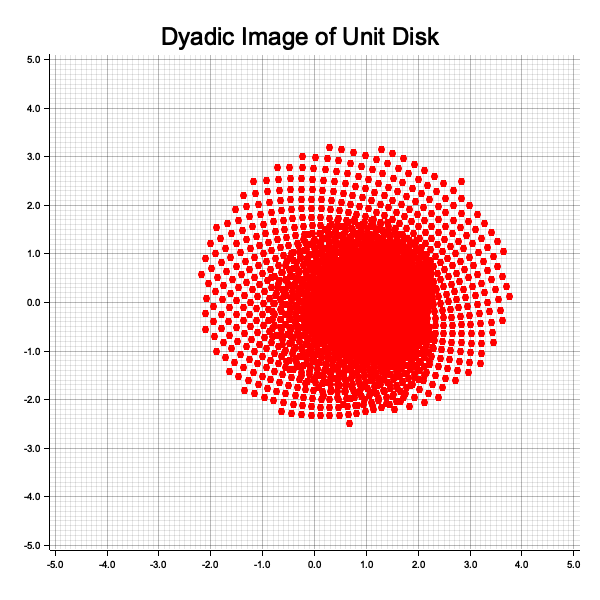
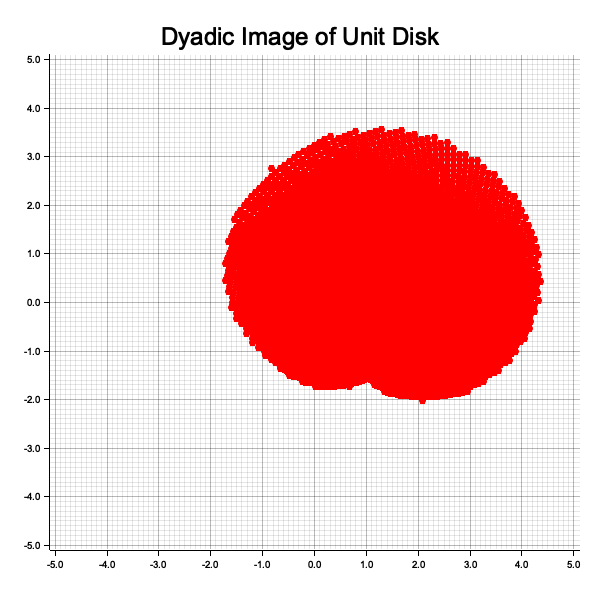
readme fixed

Changed region(s): [[0.33, 0.21, 0.93, 0.72]]

diff --git a/src/main.rs b/src/main.rs
@@ -11,12 +11,12 @@ fn main() -> Result<(), Box<dyn std::error::Error>> {
     let x = Dyadic::new(3, -1) ;
     let m_seq = vec![x.clone(), x.clone(), x.clone()] ;
     let t_seq = vec![0, 1, 0, 1, 2, 1, 4, 1, 2, 4, 4, 3, 1, 4, 5] ;
-    let word = vec![1, 1, 4, 1, 2, 4, 3,1 ,2 ,3, 1, 2, 3, 1, 3, 2] ;
+    let word = vec![1, 3, 2, 1, 2, 4, 3,1 ,2 ,3, 1, 2, 3, 1, 3, 2] ;
     let holo = psi_infinity(&m_seq, &t_seq, &word) ;
     println!("{:?}", holo) ;
     let f = Holomorphic::new(holo) ;
 
-    let points1 = unit_disk_n(-5) ;
+    let points1 = unit_disk_n(-6) ;
     let mut points2 = Vec::new() ;
     for x in &points1 {
         points2.push(f.eval(*x))

diff --git a/README.md b/README.md
@@ -1,15 +1,5 @@
 # Approximation-of-Landau-Constant
 Programiranje 2 project
-Kaj bi bilo potrebno implementirati?
-Torej, funkicja psi neskončno deluje po naslednjem principu:
-imamo m1, m2, ... pozitivna diadična števila, tako da potenčna vrsta s temi koeficienti konvergira na enotskem disku. (od kje dobimo ta števila še ne vem)
+The goal of the project is to calculate the Landau constant to the best precision so far. More about the constant and the algorithm can be found in article https://lmcs.episciences.org/1189/pdf.
 
-imamo t1, t2, .. zaporedje, kjer se vsako naravno število pojavi neskončnokrat (je en primer v članku, nevem če ga bomo res uporabili)
-
-nato pač vsako kompleksno v potenčni vrsti število predstavimo s funkcijo psi, pri čemer je različen tako začeten interval kot beseda
-
-nato narediti zaporedje b1, b2, ... za katerega držijo dovolj lepe stvari
-
-od nekje dobit cifro e
-
-TODO kranšanje dyadic?
+So far, we have implemented Dyadic numbers for efficient computation, a psi function to represent holomorphic functions and a struct of holomorphic functions. We will then take images of the unit complex disk and calculate the area of the largest disk inside the image. We have also implemented epsilon-covering grids that will help us calculate this. 
